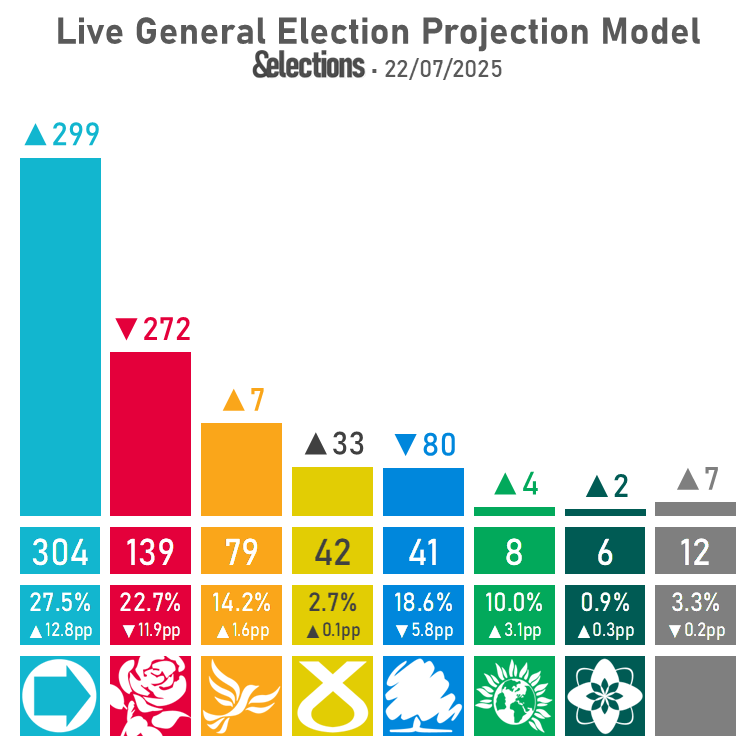
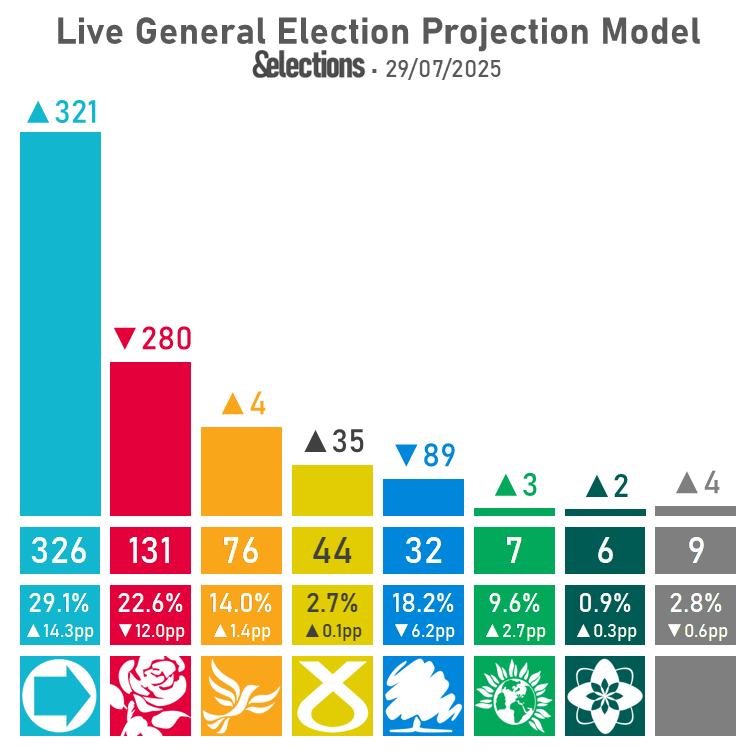
25-07-29 projection update
- replaced static image
- added new article

diff --git a/index.html b/index.html
@@ -321,6 +321,10 @@
                     <a href="#blog" id="lnk-blog" class="sectiontitlelink" title="go to section" onclick="showhide(10,false)">Blog & Articles</a>
                 </div>
                 <div class="datacontainer" id="data-blog">
+                    <a href="https://andelections.substack.com/p/290725-uk-projection-reform-headed" title="Open article in new tab" target="_blank" rel="noopener noreferrer">
+                        <h2>29/07/25 UK Projection: Reform Headed for an Outright Majority</h2>
+                        <p>29 Jul 2025 • Update on &Elections' live general election projection. Reform are headed for an outright majority for the first time as Labour and the Tories collapse further.</p>
+                    </a>
                     <a href="https://andelections.substack.com/p/22-jul-2025-uk-projection-independents" title="Open article in new tab" target="_blank" rel="noopener noreferrer">
                         <h2>22/07/25 UK Projection: Independents Bouncing Back Better</h2>
                         <p>22 Jul 2025 • Update on &Elections' live general election projection. Lib Dems & independents are up slightly; Tories are down to fifth again.</p>
